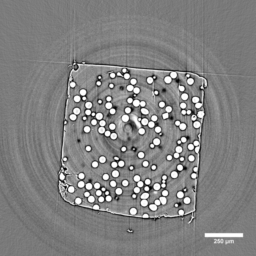
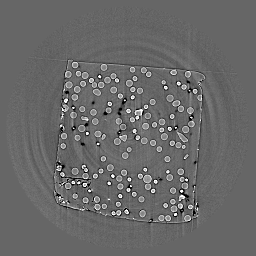
done spheres

diff --git a/docs/demo/rec_tomo_00058_to_00063.py b/docs/demo/rec_tomo_00058_to_00063.py
@@ -1,0 +1,82 @@
+#!/usr/bin/env python
+# -*- coding: utf-8 -*-
+
+"""
+TomoPy example script to reconstruct tomo_00032 to tomo_00055 APS 2-BM 
+"""
+
+from __future__ import print_function
+
+import tomopy
+import dxchange
+
+if __name__ == '__main__':
+
+
+    sample_name = 'somya_20_60'
+    tomo_id = 'tomo_00058'
+    sample_detector_distance = 60
+    rot_center = 1427
+
+    sample_name = 'somya_30_60'
+    tomo_id = 'tomo_00059'
+    sample_detector_distance = 60
+    rot_center = 1440
+    
+    sample_name = 'somya_30_25'
+    tomo_id = 'tomo_00060'
+    sample_detector_distance = 25
+    rot_center = 1337
+
+    sample_name = 'somya_20_25'
+    tomo_id = 'tomo_00061'
+    sample_detector_distance = 25
+    rot_center = 1316.5
+    
+    sample_name = 'somya_10_25'
+    tomo_id = 'tomo_00062'
+    sample_detector_distance = 25
+    rot_center = 1359.5
+    
+    sample_name = 'somya_5_25'
+    tomo_id = 'tomo_00063'
+    sample_detector_distance = 25
+    rot_center =  1322.5  
+
+    detector_pixel_size_x = 0.65e-4
+    monochromator_energy = 27.4
+       
+    # Set path to the micro-CT data to reconstruct.
+    fname = '/local/decarlo/data/tomobank/datasets/tomo_00058_to_00063/' + tomo_id + '.h5'
+
+    # Select the sinogram range to reconstruct.
+    start = 1022
+    end = 1024
+
+    sino=(start, end)
+
+    # Read raw data.
+    proj, flat, dark, theta = dxchange.read_aps_32id(fname, sino=(start, end))
+
+    # Flat-field correction of raw data.
+    data = tomopy.normalize(proj, flat, dark)
+
+    # remove stripes    
+    data = tomopy.prep.stripe.remove_stripe_fw(data,level=5,wname='sym16',sigma=1,pad=True)
+
+    # phase retrieval
+    data = tomopy.prep.phase.retrieve_phase(data,pixel_size=detector_pixel_size_x,dist=sample_detector_distance,energy=monochromator_energy,alpha=8e-3,pad=True)
+
+    # Set rotation center.
+    rot_center = rot_center
+
+    data = tomopy.minus_log(data)
+
+    # Reconstruct object using Gridrec algorithm.
+    rec = tomopy.recon(data, theta, center=rot_center, algorithm='gridrec')
+
+    # Mask each reconstructed slice with a circle.
+    rec = tomopy.circ_mask(rec, axis=0, ratio=0.95)
+
+    # Write data as stack of TIFs.
+    dxchange.write_tiff_stack(rec, fname='recon_dir/aps_nik')

diff --git a/docs/source/data/docs.data.spheres.rst b/docs/source/data/docs.data.spheres.rst
@@ -72,21 +72,41 @@ sample to detector distance and different concentrations as reported in the tabl
     :width: 20pt
     :height: 20pt
 
+.. |00059| image:: ../img/tomo_00059.png
+    :width: 20pt
+    :height: 20pt
 
-+-------------+----------+-----------------------+--------------+-----------+-----------------------+ 
-| Tomo ID     | Distance |  Concentration (%)    | Sample Name  |   Image   |       Downloads       |     
-+-------------+----------+-----------------------+--------------+-----------+-----------------------+ 
-| tomo_00058_ |    60    |          20           |   Somya      |  |00058|  |      |tomo_00058|     |
-+-------------+----------+-----------------------+--------------+-----------+-----------------------+ 
-| tomo_00059_ |    60    |          30           |   Somya      |  |00058|  |      |tomo_00059|     |
-+-------------+----------+-----------------------+--------------+-----------+-----------------------+ 
-| tomo_00060_ |    25    |          30           |   Somya      |  |00058|  |      |tomo_00060|     |
-+-------------+----------+-----------------------+--------------+-----------+-----------------------+ 
-| tomo_00061_ |    25    |          20           |   Somya      |  |00058|  |      |tomo_00061|     |
-+-------------+----------+-----------------------+--------------+-----------+-----------------------+ 
-| tomo_00062_ |    25    |          10           |   Somya      |  |00058|  |      |tomo_00062|     |
-+-------------+----------+-----------------------+--------------+-----------+-----------------------+ 
-| tomo_00063_ |    25    |           5           |   Somya      |  |00058|  |      |tomo_00063|     |
-+-------------+----------+-----------------------+--------------+-----------+-----------------------+ 
+.. |00060| image:: ../img/tomo_00060.png
+    :width: 20pt
+    :height: 20pt
+
+.. |00061| image:: ../img/tomo_00061.png
+    :width: 20pt
+    :height: 20pt
+
+.. |00062| image:: ../img/tomo_00062.png
+    :width: 20pt
+    :height: 20pt
+
+.. |00063| image:: ../img/tomo_00063.png
+    :width: 20pt
+    :height: 20pt
+
+
++-------------+-----------------------+----------+--------------+-----------+-----------------------+ 
+| Tomo ID     |  Concentration (%)    | Distance | Sample Name  |   Image   |       Downloads       |     
++-------------+-----------------------+----------+--------------+-----------+-----------------------+ 
+| tomo_00058_ |          20           |    60    | Somya_20_30  |  |00058|  |      |tomo_00058|     |
++-------------+-----------------------+----------+--------------+-----------+-----------------------+ 
+| tomo_00059_ |          30           |    60    | Somya_30_60  |  |00059|  |      |tomo_00059|     |
++-------------+-----------------------+----------+--------------+-----------+-----------------------+ 
+| tomo_00060_ |          30           |    25    | Somya_30_25  |  |00060|  |      |tomo_00060|     |
++-------------+-----------------------+----------+--------------+-----------+-----------------------+ 
+| tomo_00061_ |          20           |    25    | Somya_20_25  |  |00061|  |      |tomo_00061|     |
++-------------+-----------------------+----------+--------------+-----------+-----------------------+ 
+| tomo_00062_ |          10           |    25    | Somya_10_25  |  |00062|  |      |tomo_00062|     |
++-------------+-----------------------+----------+--------------+-----------+-----------------------+ 
+| tomo_00063_ |           5           |    25    | Somya_5_25   |  |00063|  |      |tomo_00063|     |
++-------------+-----------------------+----------+--------------+-----------+-----------------------+ 
 
 
